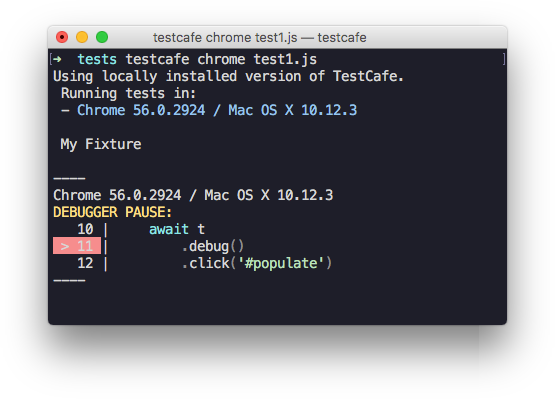
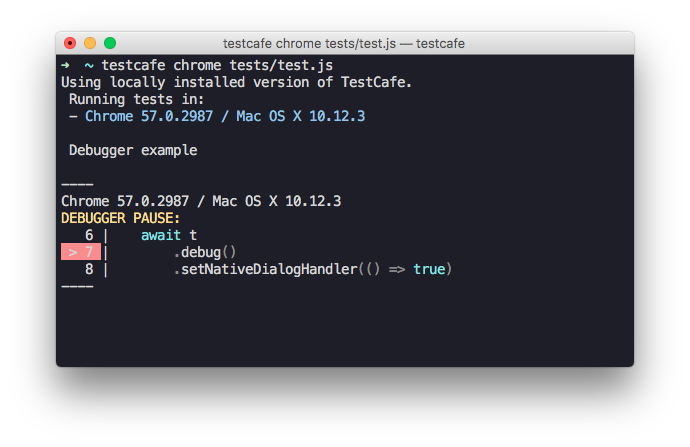
[docs] Fix client debugging example (#1363)
* Fix client debugging example

* Update the screenshot

* Fix a blog header

Changed region(s): [[0.0613, 0.0602, 0.9189, 0.8421]]

diff --git a/docs/articles/blog/2017-3-28-testcafe-v0-14-0-released.md b/docs/articles/blog/2017-3-28-testcafe-v0-14-0-released.md
@@ -7,6 +7,8 @@ permalink: /blog/:title.html
 
 Authentication via user roles, client-side debugging and numerous bug fixes.
 
+<!--more-->
+
 ## Enhancements
 
 ### ⚙ Authentication via user roles ([#243](https://github.com/DevExpress/testcafe/issues/243))
@@ -74,7 +76,7 @@ test('test that involves two users', async t => {
 
 To learn more, see [User Roles](https://devexpress.github.io/testcafe/documentation/test-api/authentication/user-roles.html).
 
-#### ⚙ BrowserStack support
+### ⚙ BrowserStack support
 
 We have released the [BrowserStack](https://www.browserstack.com/) browser provider [plugin](https://github.com/DevExpress/testcafe-browser-provider-browserstack).
 
@@ -106,6 +108,7 @@ fixture `My fixture`
 test('My test', async t => {
     await t
         .debug()
+        .setNativeDialogHandler(() => true)
         .click('#populate')
         .click('#submit-button');
 });

diff --git a/docs/articles/documentation/recipes/debugging-tests.md b/docs/articles/documentation/recipes/debugging-tests.md
@@ -31,6 +31,7 @@ fixture `My fixture`
 test('My test', async t => {
     debugger;
     await t
+        .setNativeDialogHandler(() => true)
         .click('#populate')
         .click('#submit-button');
 });
@@ -60,6 +61,7 @@ fixture `My fixture`
 test('My test', async t => {
     await t
         .debug()
+        .setNativeDialogHandler(() => true)
         .click('#populate')
         .click('#submit-button');
 });

diff --git a/docs/articles/documentation/test-api/client-side-debugging.md b/docs/articles/documentation/test-api/client-side-debugging.md
@@ -33,6 +33,7 @@ fixture `Debugger example`
 test('Debugger', async t => {
     await t
         .debug()
+        .setNativeDialogHandler(() => true)
         .click('#populate')
         .click('#submit-button');
 });

diff --git a/CHANGELOG.md b/CHANGELOG.md
@@ -103,6 +103,7 @@ fixture `My fixture`
 test('My test', async t => {
     await t
         .debug()
+        .setNativeDialogHandler(() => true)
         .click('#populate')
         .click('#submit-button');
 });
